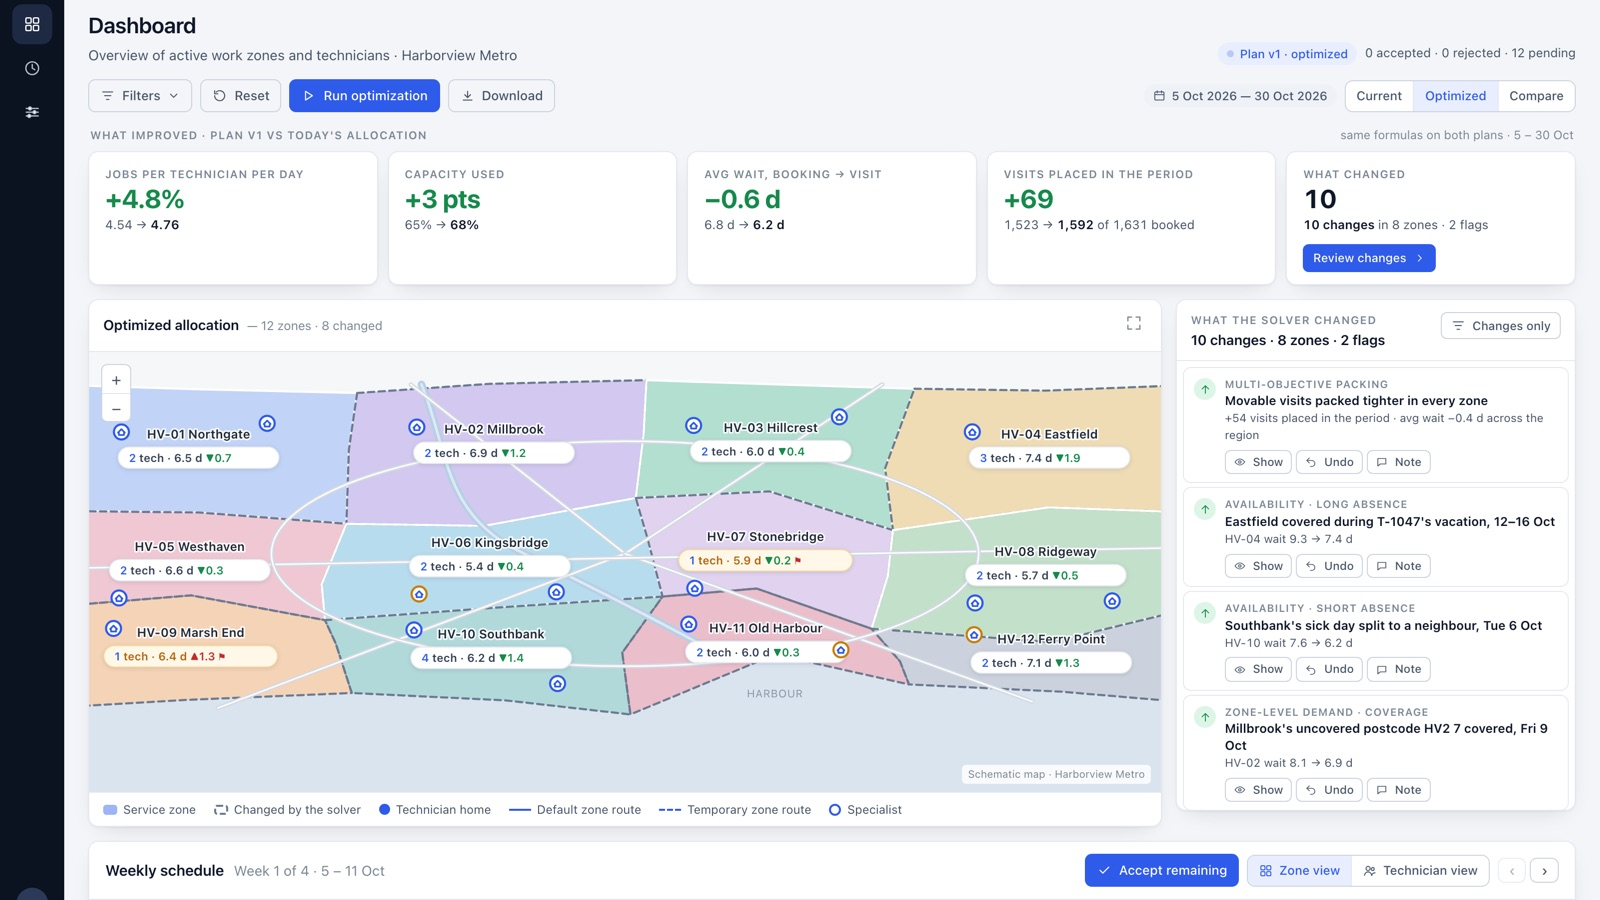
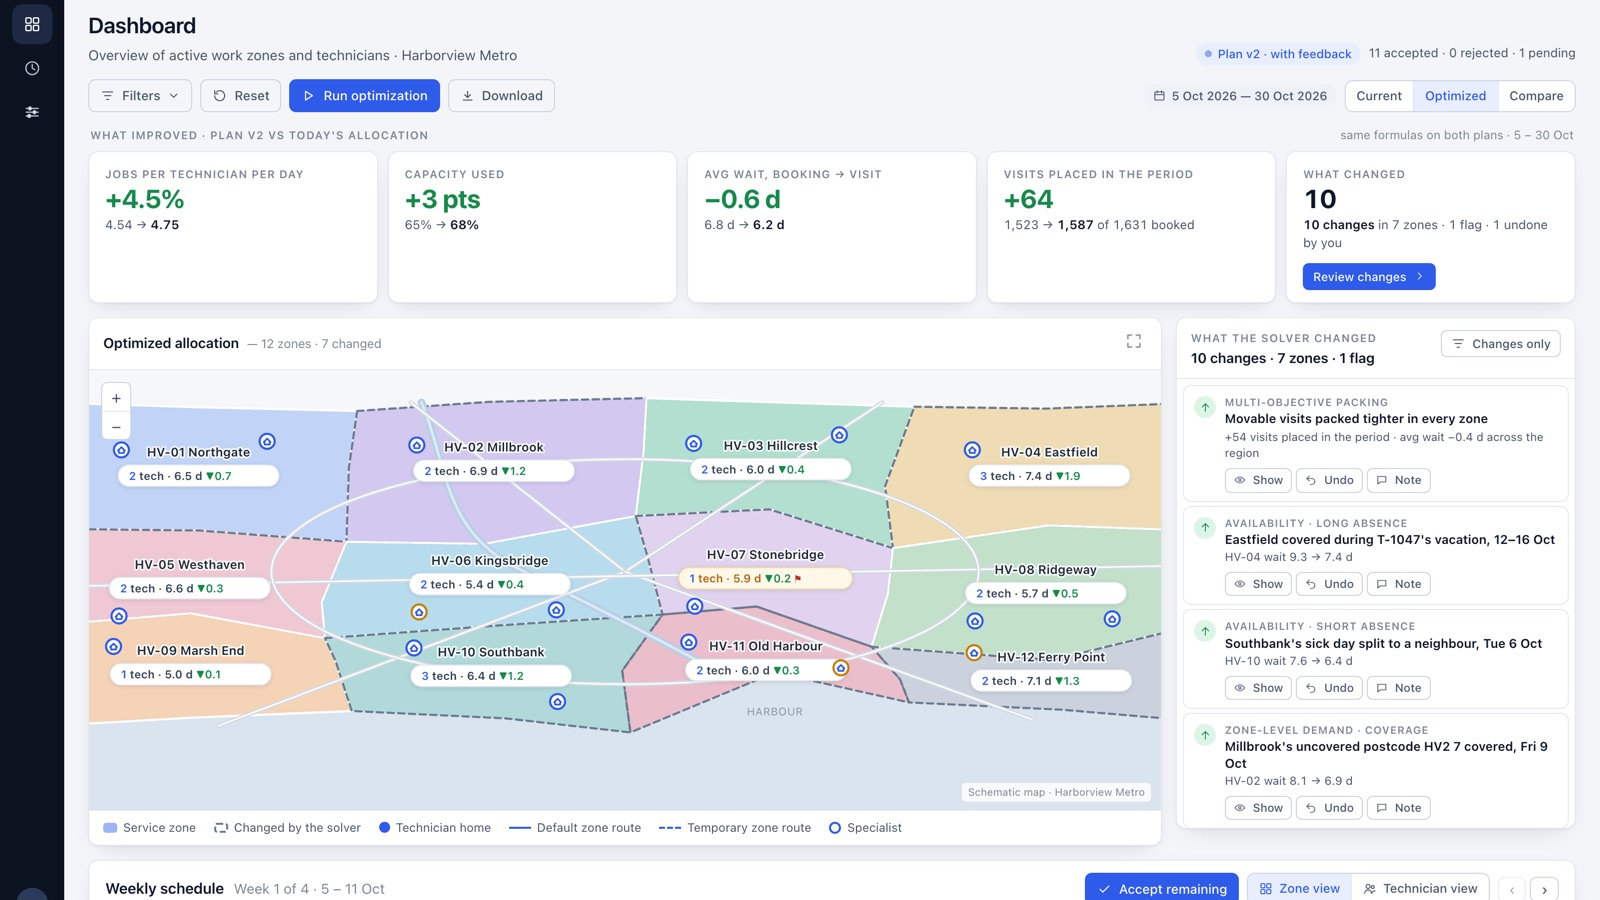
autosync: Alexs-MacBook-Air 2026-09-16 19:42 (5 changed)

diff --git a/outputs/oracle-solutions-site/site/demo/workforce-optimization/demo.css b/outputs/oracle-solutions-site/site/demo/workforce-optimization/demo.css
@@ -543,5 +543,6 @@ body.tour-on .tour-locked { cursor: not-allowed; }
 .map .zpill .dbad { fill: var(--bad); }
 .map .zone.is-changed { stroke: #fff; stroke-width: 2; }
 .map .zone.is-changed { stroke-dasharray: 6 4; stroke: #6B7A90; }
+@media (max-width: 1400px) { .kpi-label { font-size: 10px; letter-spacing: .05em; } .kpi-big { font-size: 22px; } .kpi-sub { font-size: 12px; } }
 @media (max-width: 1180px) { .plan-row { grid-template-columns: 1fr; } .changes { max-height: 420px; } .kpi-tiles { grid-template-columns: repeat(3, 1fr); } }
 @media (max-width: 760px) { .kpi-tiles { grid-template-columns: repeat(2, 1fr); } }

diff --git a/outputs/oracle-solutions-site/docs/CONFIG.md b/outputs/oracle-solutions-site/docs/CONFIG.md
@@ -112,7 +112,7 @@ One list drives every surface that shows more than one product:
 
 - **the home page's Products screen (S3)** — this array orders the **rows inside each category column**, after the products have been split by `category`; the column a product lands in is its `category`, the position it takes inside that column is this list (round 5);
 - **the home hero's stack visual** — the product chips under each of the three category tiles, in the same order;
-- the Products page tiles and the facet-rail counts;
+- the Products page tiles, and the faceted counts beside the rail options that have one;
 - the "Which product?" select in both forms.
 
 There is no second place to edit and no way for two surfaces to disagree. (The Previous/Next pager that used to sit at the foot of a product page was removed in round 3, B — the tab bar and the Products grid are the navigation, and a pager that wrapped from the last product back to the first was inventing an order the reader had not asked for.)
@@ -127,7 +127,9 @@ There is no second place to edit and no way for two surfaces to disagree. (The P
 
 So a partial list is legitimate: name only the two or three you care about seeing first and let the rest fall in behind them in their declared order.
 
-The array is **sort order only** — it never filters. All seven products render whatever this list says, and the Products page still reports "7 products". To take a product off the site, remove it from `content.js`, not from here.
+The array is **sort order only** — it never filters. Every product renders whatever this list says. **The Products page reports no total at all**: the results line above the grid says what a filter returned (`3 products`, no denominator) and stays empty when nothing is filtered or when a filter returns nothing, and `productsPage.count` was deleted from `content.js` in §18.9. To take a product off the site, remove it from `content.js`, not from here.
+
+**What the rail shows, and what it does not.** The platform group lists **only the platforms that at least one product matches today** — the option is an offer to filter, and an option returning nothing is a dead end on a page a seller demos live; a `0` beside an Oracle product name in front of an Oracle account executive reads as a scoreboard. With today's `productOrder` and facets that is *All · OCI + NVIDIA · Oracle Autonomous AI Lakehouse*; *Oracle AI Data Platform* and *Oracle AI for Fusion Applications* are absent until a product carries the facet, and the moment one does the option appears with its count, with no config change. **The deep link still works for all four** — `#/products?tech=oracle-ai-fusion` renders that option, selected, above its `emptyState`. The two **All** options carry no count (it would be the size of the catalog), and a count of zero renders no number. This reverses the round-4 behaviour recorded in `docs/PROVENANCE.md` §17.7; the reasoning is in §18.9.
 
 ### `sellerGate.allowedDomains`
 
@@ -201,7 +203,7 @@ Set `marketplace: true` and three things appear together, on the next reload:
 
 - the **Oracle Marketplace** badge (storefront icon) at the right end of the product hero's chip row,
 - the same badge top-right of that product's image band in the Products grid, and **inline beside the product name, scaled down, in the home page's catalog rows** (round 5 — those rows carry no image band),
-- the count beside the **On Oracle Marketplace** checkbox in the Products facet rail, which filters on this same boolean (`mp=1`). **Both availability checkboxes always render**, with their faceted counts, whatever the flags say: the rail's shape does not move under the reader between visits, and `demo=1` / `mp=1` are always honored. A box whose count is zero renders disabled rather than absent, the same way a zero-count radio option does.
+- the count beside the **On Oracle Marketplace** checkbox in the Products facet rail, which filters on this same boolean (`mp=1`). **Both availability checkboxes always render**, with their faceted counts, whatever the flags say: the rail's shape does not move under the reader between visits, and `demo=1` / `mp=1` are always honored. A box whose count is zero renders disabled rather than absent. **This is now the deliberate exception**, not the house style: since §18.9 a zero-count *platform* option is not rendered at all, because a platform nobody ships on is a gap in a vendor's product set. The two checkboxes are named capabilities — *is there a demo I can open today?* — and the group's shape is the site's answer to that question, so it stays put whatever the flags say.
 
 With `marketplaceUrl` set, the badge opens the listing in a new tab; without one it renders inert — the flag says the listing exists, and a link to nowhere would be worse than no link. There is **no separate hero button**: a second control pointing at the same URL as the badge is one control too many.
 

diff --git a/outputs/oracle-solutions-site/docs/ASSETS.md b/outputs/oracle-solutions-site/docs/ASSETS.md
@@ -92,14 +92,16 @@ recorded below.
 | `workforce-optimization-1.jpg` | Load the period's data: the Run optimization modal — sources (manual XLSX · field-service system connected · booking, inventory, HR/WFM, forecast, BI configured), region, period, the attached file and its seven sheets | Run modal, file chosen, before Optimize |
 | `workforce-optimization-2.jpg` | Set the rules: the Optimization settings drawer — planning mode and capacity, objectives and weights (productivity 40 · waiting time 35 · workload balance 25) and the first hard rule | Settings drawer over the optimized plan |
 | `workforce-optimization-3.jpg` | Solve the plan: the solver stages — validate the input (with its warning), travel matrix, rules, GPU solve, KPIs | Run modal 2.3 s into the run |
-| `workforce-optimization-4.jpg` | Review, approve, measure: the value readout under the toolbar — the first three KPI tiles, each a big coloured delta over its before → after line (jobs per technician per day +4.8%, capacity used +3 pts, avg wait −0.6 d) | Plan v1 dashboard, KPI band, narrow viewport |
+| `workforce-optimization-4.jpg` | Review, approve, measure: the value readout under the toolbar — the first three KPI tiles, each a big coloured delta over its before → after line (jobs per technician per day +4.5%, capacity used +3 pts, avg wait −0.6 d) | Final plan (v2, decisions accepted), KPI band, narrow viewport |
 
 **Capture.** The same tool in `MODE=script` with `tools/capture-wfo-frames.json`,
-`DPR=2`, the page opened with `?tour=off&ui=clean&state=start`
-(`tools/capture-wfo-tour.json` drives the whole guided tour by real clicks and
-is the tour's regression test — it reports console exceptions). The one
-scenario is run at two viewports; each run takes all five shots and only the
-named ones are kept:
+`DPR=2` (`tools/capture-wfo-tour.json` drives the whole guided tour by real
+clicks and is the tour's regression test — it reports console exceptions).
+`-1`, `-2` and `-3` are taken with the page opened at `?tour=off&ui=clean&state=start`
+(the scenario runs the optimization itself); `-4` and the poster with
+`&state=final` — plan v2 with the decisions accepted, so the band reads the
+cleared +4.5% rather than plan v1's +4.8% — and only the two last shots of the
+scenario are kept from those runs. Two viewports:
 
     MODE=script STEPS=tools/capture-wfo-frames.json DPR=2 W=1600 H=1000 \
       node tools/capture-demo-frames.mjs \
@@ -107,7 +109,7 @@ named ones are kept:
     MODE=script STEPS=tools/capture-wfo-frames.json DPR=2 W=1184 H=1000 \
       node tools/capture-demo-frames.mjs "<same URL>" /tmp/wfo1184
 
-`-1`, `-2`, `-3` and the poster come from the 1600 × 1000 run; `-4` comes from
+`-1`, `-2`, `-3` and the poster come from 1600 × 1000 runs; `-4` comes from
 the 1184 × 1000 run, because three of the band's five tiles fit a 640 px crop
 only in the narrow window between 1181 px (below it the band reflows to three
 columns 349 px wide) and ~1185 px (above it five 1/5-width tiles are again too
